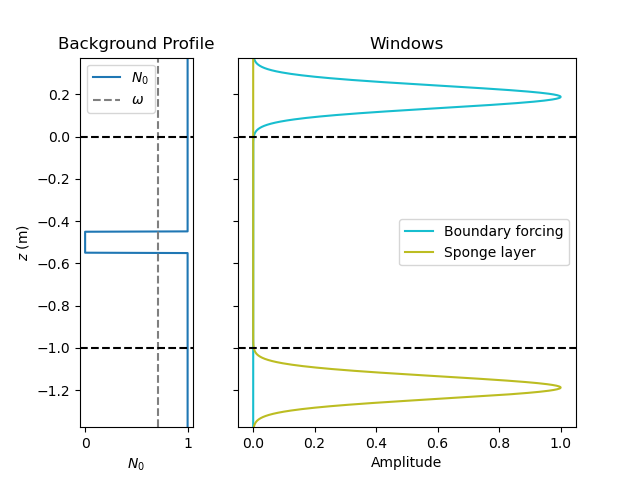
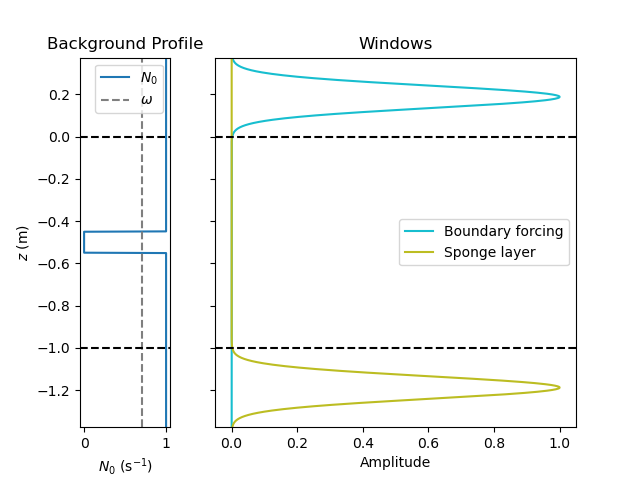
Moved params to switchboard, improved z vs. t plot

diff --git a/main.py b/main.py
@@ -183,45 +183,58 @@ snapshots = add_new_file_handler('snapshots')
 snapshots.add_system(solver.state)
 
 ###############################################################################
-
 # CFL
-CFL = flow_tools.CFL(solver, initial_dt=sbp.dt, cadence=10, safety=1,
-                     max_change=1.5, min_change=0.5, max_dt=0.125, threshold=0.05)
+CFL = flow_tools.CFL(solver, initial_dt=sbp.dt, cadence=sbp.CFL_cadence,
+                     safety=sbp.CFL_safety, max_change=sbp.CFL_max_change,
+                     min_change=sbp.CFL_min_change, max_dt=sbp.CFL_max_dt,
+                     threshold=sbp.CFL_threshold)
 CFL.add_velocities(('w'))
-
 ###############################################################################
-
 # Flow properties
-flow = flow_tools.GlobalFlowProperty(solver, cadence=10)
-flow.add_property("(k*u + m*w)/omega", name='Lin_Criterion')
-
+flow_name       = sbp.flow_name
+flow            = flow_tools.GlobalFlowProperty(solver, cadence=sbp.flow_cadence)
+flow.add_property(sbp.flow_property, name=flow_name)
 ###############################################################################
-
+# Logger parameters
+endtime_str     = sbp.endtime_str
+time_factor     = T
+adapt_dt        = sbp.adapt_dt
+logger_cadence  = sbp.logger_cadence
+iteration_str   = sbp.iteration_str
+flow_log_message= sbp.flow_log_message
+###############################################################################
 # Store data for final plot
 w.set_scales(1)
 w_list = [np.copy(w['g'])]
 t_list = [solver.sim_time]
-
+###############################################################################
 # Main loop
 try:
+    logger.info(endtime_str %(solver.stop_sim_time/time_factor))
     logger.info('Starting loop')
     start_time = time.time()
     dt = sbp.dt
     while solver.proceed:
+        # Adaptive time stepping controlled from switchboard
+        if (adapt_dt):
+            dt = CFL.compute_dt()
         solver.step(dt)
         if solver.iteration % 1 == 0:
             w.set_scales(1)
             w_list.append(np.copy(w['g']))
             t_list.append(solver.sim_time)
-        if solver.iteration % 100 == 0:
-            logger.info('Iteration: %i, Time: %e, dt: %e' %(solver.iteration, solver.sim_time, dt))
+        if solver.iteration % logger_cadence == 0:
+            logger.info(iteration_str %(solver.iteration, solver.sim_time/time_factor, dt/time_factor))
+            logger.info(flow_log_message.format(flow.max(flow_name)))
+            if np.isnan(flow.max(flow_name)):
+                raise NameError('Code blew up it seems')
 except:
     logger.error('Exception raised, triggering end of main loop.')
     raise
 finally:
     end_time = time.time()
     logger.info('Iterations: %i' %solver.iteration)
-    logger.info('Sim end time: %f' %solver.sim_time)
+    logger.info(endtime_str %(solver.sim_time/time_factor))
     logger.info('Run time: %.2f sec' %(end_time-start_time))
     logger.info('Run time: %f cpu-hr' %((end_time-start_time)/60/60*domain.dist.comm_cart.size))
 
@@ -231,5 +244,4 @@ w_array = np.transpose(np.array(w_list))
 t_array = np.array(t_list)
 
 if sbp.plot_spacetime:
-    # hf.plot_z_vs_t(z, t_array, w_array, k, m, omega)
-    hf.plot_z_vs_t(z, t_array, w_array, BP_array, k, m, omega, sbp.z0_dis, sbp.zf_dis)
+    hf.plot_z_vs_t(z, t_array, T, w_array, BP_array, k, m, omega, sbp.z0_dis, sbp.zf_dis)

diff --git a/helper_functions.py b/helper_functions.py
@@ -5,6 +5,7 @@ This contains helper functions for the Dedalus code so the same version of funct
 """
 
 import numpy as np
+import matplotlib as mpl
 import matplotlib.pyplot as plt
 from matplotlib import ticker
 from dedalus.extras.plot_tools import quad_mesh, pad_limits
@@ -85,7 +86,7 @@ def plot_v_profiles(BP_array, bf_array, sp_array, z, omega=None, z0_dis=None, zf
     # This dictionary makes each subplot have the desired ratios
     # The length of heights will be nrows and likewise len(widths)=ncols
     plot_ratios = {'height_ratios': [1],
-                   'width_ratios': [1,3]}
+                   'width_ratios': [1,4]}
     # Set ratios by passing dictionary as 'gridspec_kw', and share y axis
     fig, axes = plt.subplots(nrows=1, ncols=2, gridspec_kw=plot_ratios, sharey=True)
     #
@@ -104,20 +105,21 @@ def plot_v_profiles(BP_array, bf_array, sp_array, z, omega=None, z0_dis=None, zf
 
 ###############################################################################
 
-def plot_z_vs_t(z, t_array, w_array, BP_array, k, m, omega, z0_dis=None, zf_dis=None, c_map='RdBu_r'):
+def plot_z_vs_t(z, t_array, T, w_array, BP_array, k, m, omega, z0_dis=None, zf_dis=None, c_map='RdBu_r'):
+    # Set aspect ratio of overall figure
+    w, h = mpl.figure.figaspect(0.5)
     # This dictionary makes each subplot have the desired ratios
     # The length of heights will be nrows and likewise len(widths)=ncols
     plot_ratios = {'height_ratios': [1],
-                   'width_ratios': [1,3]}
+                   'width_ratios': [1,5]}
     # Set ratios by passing dictionary as 'gridspec_kw', and share y axis
-    fig, axes = plt.subplots(nrows=1, ncols=2, gridspec_kw=plot_ratios, sharey=True)
+    fig, axes = plt.subplots(figsize=(w,h), nrows=1, ncols=2, gridspec_kw=plot_ratios, sharey=True)
     #
     plot_BP(axes[0], BP_array, z, omega)
     add_dis_bounds(axes[0], z0_dis, zf_dis)
     #
-    xmesh, ymesh = quad_mesh(x=t_array, y=z)
+    xmesh, ymesh = quad_mesh(x=t_array/T, y=z)
     im = axes[1].pcolormesh(xmesh, ymesh, w_array, cmap=c_map)
-    # plt.axis(pad_limits(xmesh, ymesh))
     # Find max of absolute value for colorbar for limits symmetric around zero
     cmax = max(abs(w_array.flatten()))
     if cmax==0.0:
@@ -125,10 +127,12 @@ def plot_z_vs_t(z, t_array, w_array, BP_array, k, m, omega, z0_dis=None, zf_dis=
     # Set upper and lower limits on colorbar
     im.set_clim(-cmax, cmax)
     # Add colorbar to im
-    plt.colorbar(im, format=ticker.FuncFormatter(latex_exp))
-    axes[1].set_xlabel(r'$t$ (s)')
+    cbar = plt.colorbar(im)#, format=ticker.FuncFormatter(latex_exp))
+    cbar.ax.ticklabel_format(style='sci', scilimits=(-2,2), useMathText=True)
+    axes[1].set_xlabel(r'$t/T$')
     axes[1].set_title(r'$w$ (m/s)')
-    fig.suptitle(r'Forced 1D Wave, $(k,m,\omega)$=(%g,%g,%g)' %(k, m, omega))
+    param_formated_str = latex_exp(k)+', '+latex_exp(m)+', '+latex_exp(omega)
+    fig.suptitle(r'Forced 1D Wave, $(k,m,\omega)$=(%s)' %(param_formated_str))
     plt.savefig('f_1D_wave.png')
 
 ###############################################################################

diff --git a/switchboard.py b/switchboard.py
@@ -212,14 +212,17 @@ CFL_max_change  = 1.5
 CFL_min_change  = 0.5
 CFL_max_dt      = 0.125
 CFL_threshold   = 0.05
-
 ###############################################################################
 # Flow properties
 flow_cadence    = 10
-flow_property   = "(kx*u + kz*w)/omega"
+flow_property   = "(k*u + m*w)/omega"
 flow_name       = 'Lin_Criterion'
+###############################################################################
+# Logger parameters
+endtime_str     = 'Sim end period: %f'
+logger_cadence  = 100
+iteration_str   = 'Iteration: %i, t/T: %e, dt/T: %e'
 flow_log_message= 'Max linear criterion = {0:f}'
-
 ###############################################################################
 
 ###############################################################################
